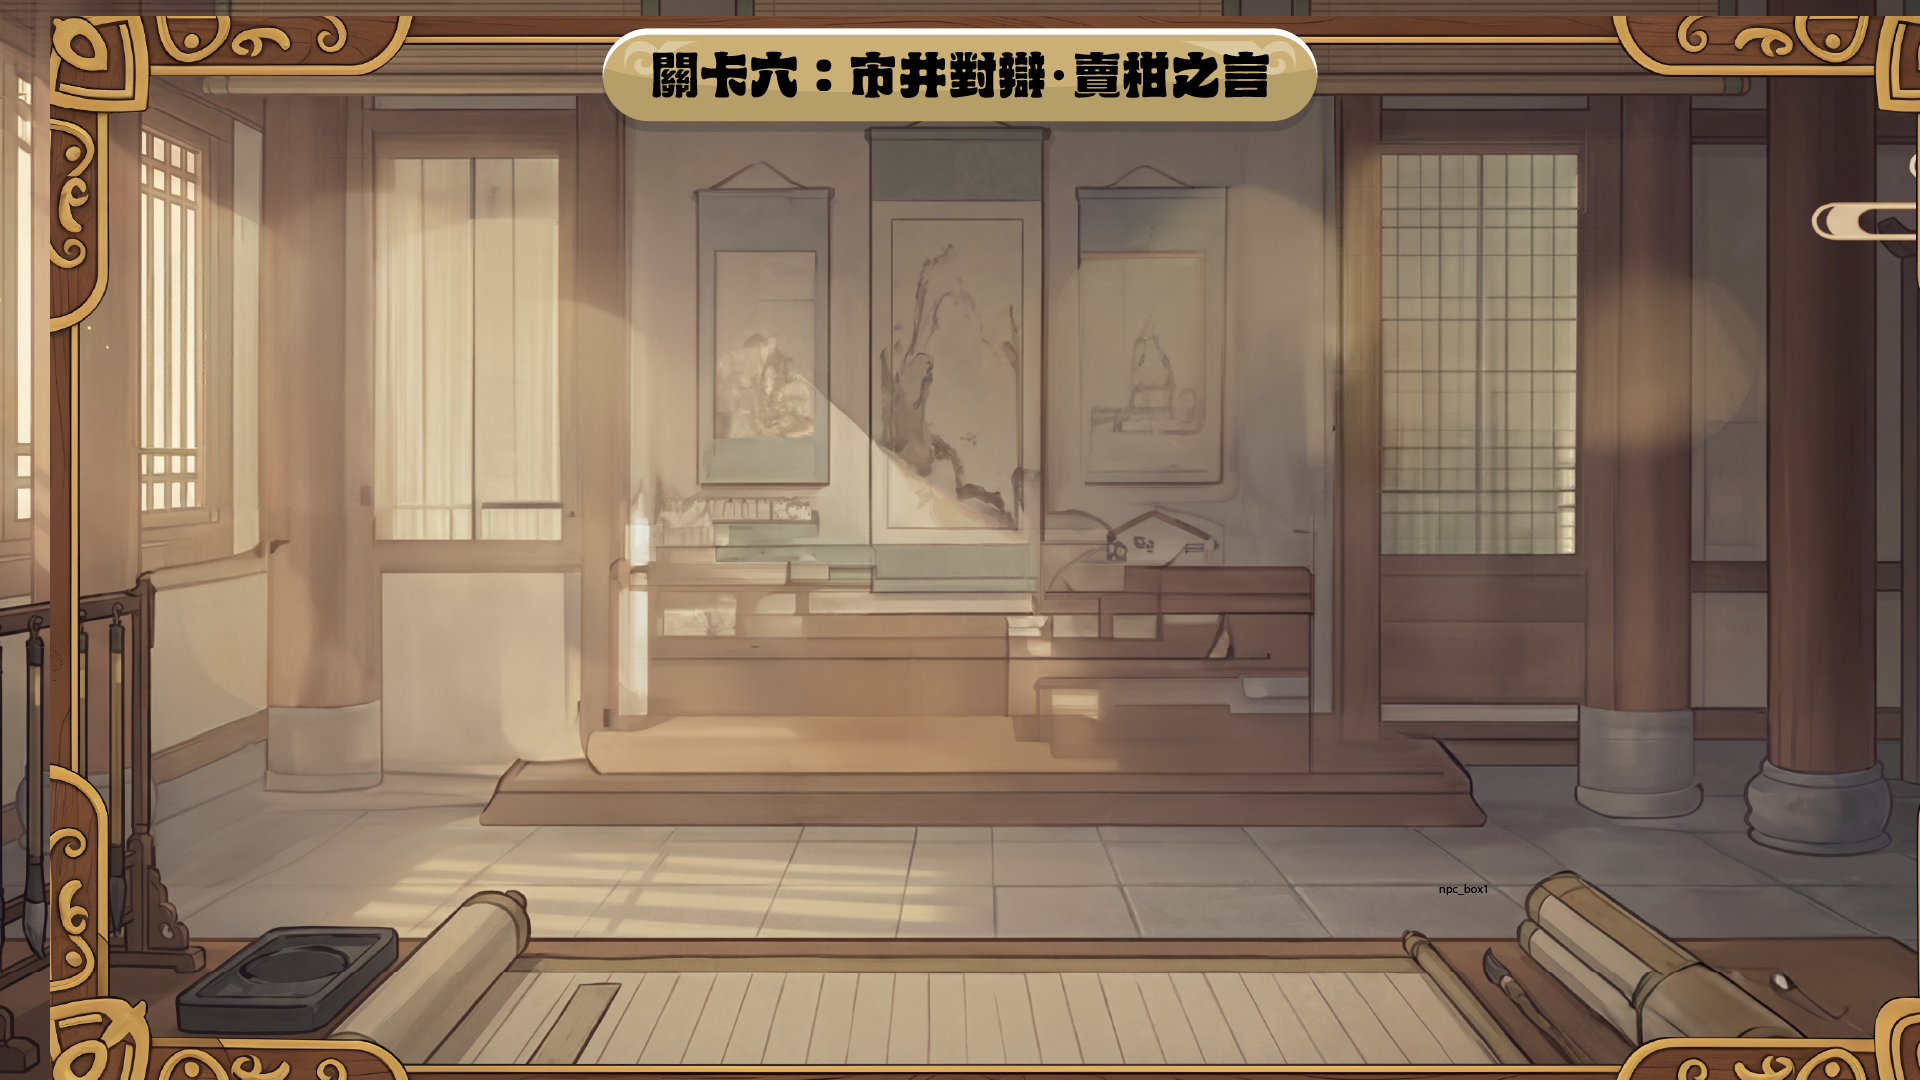
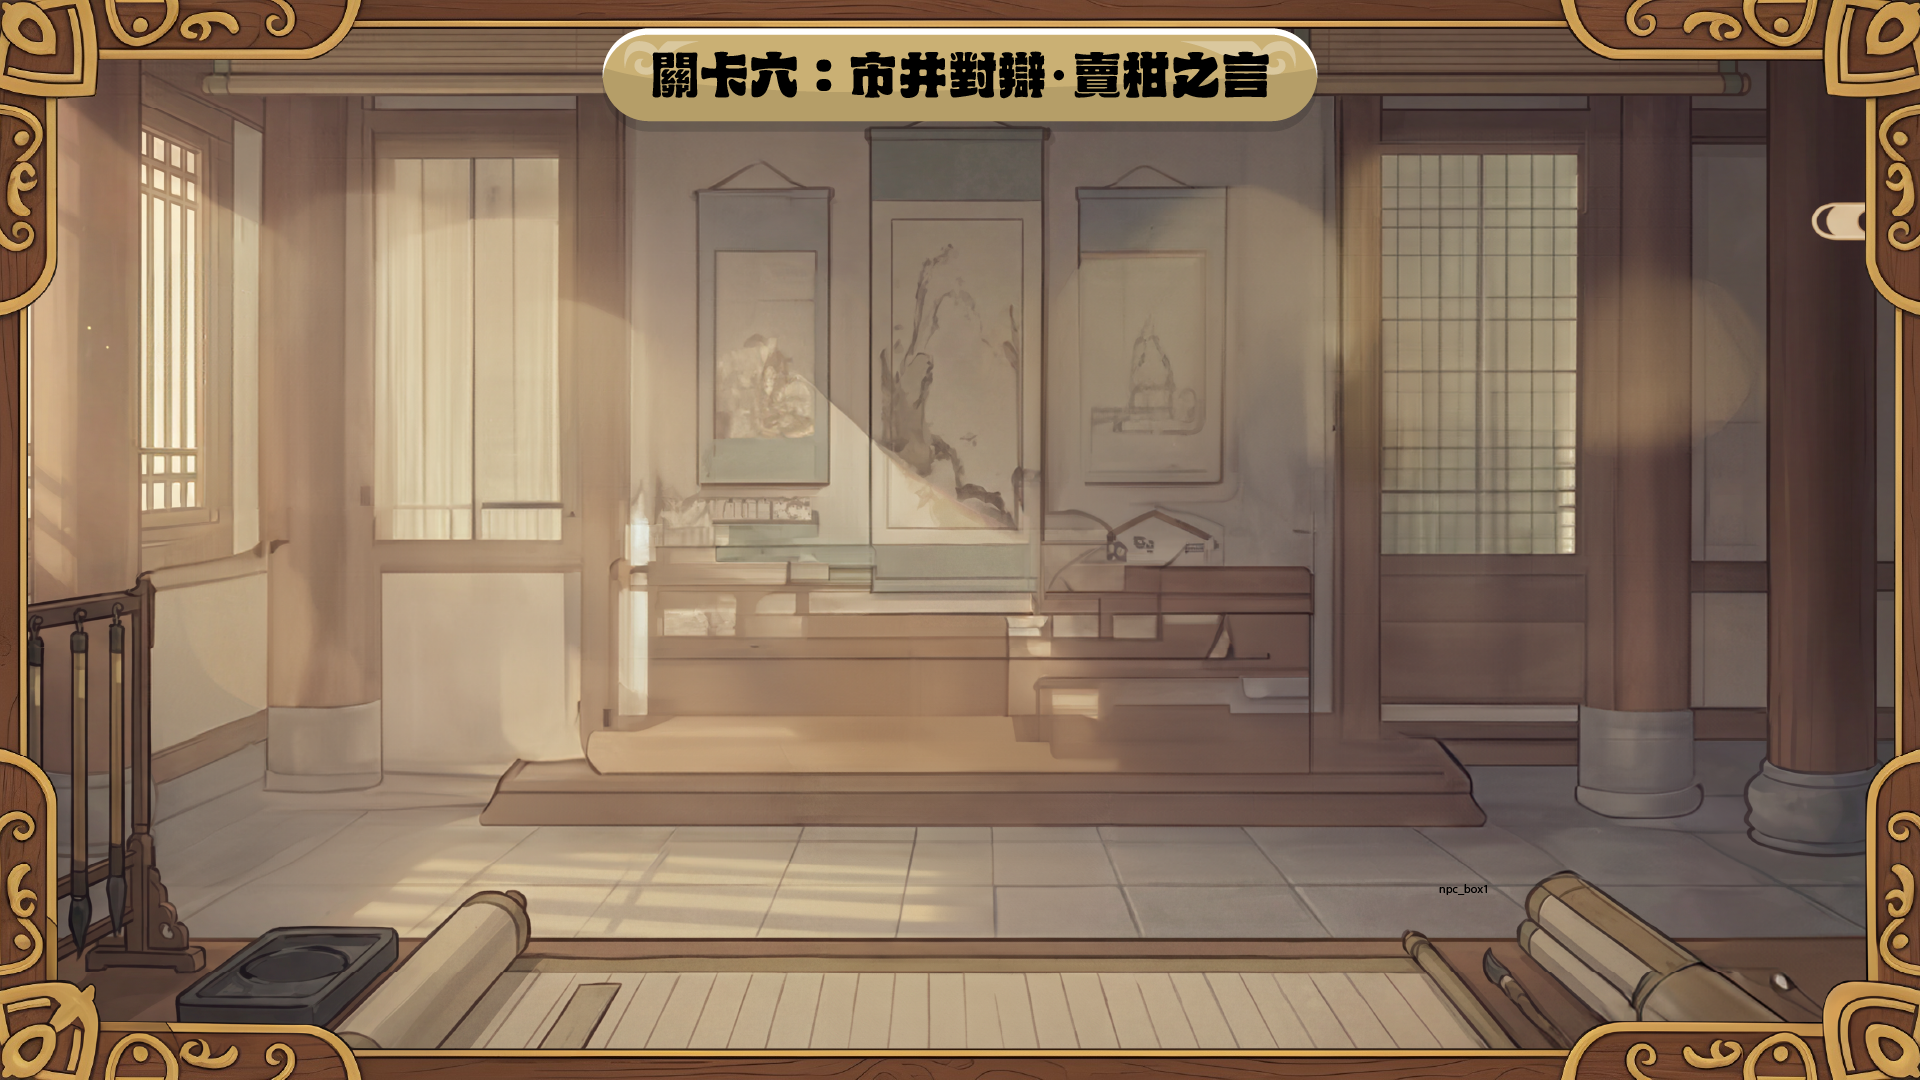
update

Changed region(s): [[0.0, 0.0, 1.0, 1.0]]

diff --git a/src/scenes/MainStreetScene.js b/src/scenes/MainStreetScene.js
@@ -181,6 +181,12 @@ export class MainStreetScene extends Phaser.Scene {
         if (this.sound.getAll('bgm').length === 0) {
             this.sound.play('bgm', { loop: true, volume: 0.5 });
         }
+
+        this.input.on('pointerup', () => {
+            this.isLeftDown = false;
+            this.isRightDown = false;
+        });
+
         // Create NPC animations
         this.createAnimations();
 
@@ -239,7 +245,7 @@ export class MainStreetScene extends Phaser.Scene {
         this.isRightDown = false;
         this.isTalking = false;
 
-        this.btnLeft = new CustomButton(this, 150, height / 2, 'prev_button', 'prev_button_click',
+        this.btnLeft = new CustomButton(this, 150, height / 2 + 100, 'prev_button', 'prev_button_click',
             () => {
                 this.isLeftDown = true;
                 this.handleAnimation(genderKey, true, true);
@@ -250,7 +256,7 @@ export class MainStreetScene extends Phaser.Scene {
             }
         ).setScrollFactor(0).setDepth(100);
 
-        this.btnRight = new CustomButton(this, width - 150, height / 2, 'next_button', 'next_button_click',
+        this.btnRight = new CustomButton(this, width - 150, height / 2 + 100, 'next_button', 'next_button_click',
             () => {
                 this.isRightDown = true;
                 this.handleAnimation(genderKey, true, false);
@@ -261,6 +267,17 @@ export class MainStreetScene extends Phaser.Scene {
             }
         ).setScrollFactor(0).setDepth(100);
 
+        // Stop movement if pointer leaves the game window
+        this.input.on('pointerout', () => {
+            if (this.isLeftDown) {
+                this.isLeftDown = false;
+                this.handleAnimation(genderKey, false, true);
+            }
+            if (this.isRightDown) {
+                this.isRightDown = false;
+                this.handleAnimation(genderKey, false, false);
+            }
+        });
 
         this.bubbleTimers = [];
         const npc1_bubbles = ['npc1_bubble_1'];
@@ -399,18 +416,21 @@ export class MainStreetScene extends Phaser.Scene {
     }
 
     handleAnimation(gender, isMoving, isLeft) {
+        let walkKey = `${gender}_left_walk_anim`;
         let idleKey = `${gender}_idle_anim`;
 
         if (isMoving) {
-            let walkKey = isLeft ? `${gender}_left_walk_anim` : `${gender}_right_walk_anim`;
+            // true means: if 'walkKey' is already playing, don't restart it
             this.playerSprite.play(walkKey, true);
-            this.playerSprite.setFlipX(false);
+            if (!isLeft) {
+                this.playerSprite.setFlipX(true);
+            } else {
+                this.playerSprite.setFlipX(false);
+            }
         } else {
             this.playerSprite.play(idleKey, true);
-            this.playerSprite.setFlipX(false);
         }
     }
-
     switchTalkingAnimation(gender, isLeft) {
         if (isLeft === undefined) isLeft = this.playerSprite.lastDirectionLeft;
         let talkKey = isLeft ? `${gender}_left_talk_anim` : `${gender}_right_talk_anim`;

diff --git a/src/scenes/BootScene.js b/src/scenes/BootScene.js
@@ -142,7 +142,7 @@ export class BootScene extends Phaser.Scene {
 
             this.registry.set('globalSettings', settings);
         }
-        this.scene.start('MainStreetScene');
+        this.scene.start('GameStartScene');
     }
 }
 